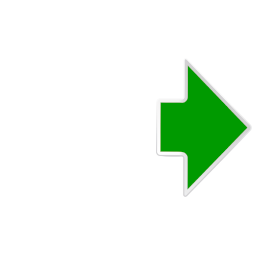
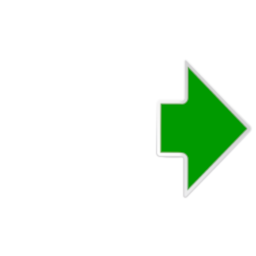
Fixed indicator arrows, still can't hold button down

diff --git a/src/navarrows.rs b/src/navarrows.rs
@@ -52,7 +52,7 @@ impl NavArrows {
     /// Decode the click into the user action -- Left, Right, Up, Down, Center, or None.
     pub fn decode_response(&self, response: &Response) -> NavAction {
         if response.is_pointer_button_down_on() {
-            ////println!("Button down on");// ***TEMP***
+            println!("Button down on");// ***TEMP***
             if let Some(interact_pos) = response.hover_pos() {
                 //  Compute position relative to center of button.
                 let to_vec2 = |p: egui::Pos2| egui::Vec2::new(p.x, p.y);          // why not just use one 2d point/vector type?
@@ -102,9 +102,10 @@ impl egui::Widget for &mut NavArrows {
                 *&self.button.0,
                 *&self.button.1,
                 )
-                .frame(true)
+                .frame(false)
             );
         self.draw_pressed_arrow(ui, response)
+        ////response
     }
 }
 

diff --git a/src/examples/ui-mock/main.rs b/src/examples/ui-mock/main.rs
@@ -186,7 +186,7 @@ impl AppUi {
         //  Icon loading (current). Example content only. Real programs do this at run time, so we can have themes.
         let move_arrows_icon_bytes = include_bytes!("../../assets/images/move-arrows-128.png");
         let rot_arrows_icon_bytes = include_bytes!("../../assets/images/rot-arrows-128.png");
-        let pressed_button_icon_bytes = include_bytes!("../../assets/images/arrow-pressed-right.png");
+        let pressed_button_icon_bytes = include_bytes!("../../assets/images/arrow-pressed-right-64.png");
         let ui_app_assets = UiAppAssets {
             move_arrows_icon: libui::load_canned_icon(move_arrows_icon_bytes, &mut egui_routine, renderer),
             rot_arrows_icon: libui::load_canned_icon(rot_arrows_icon_bytes, &mut egui_routine, renderer),

diff --git a/src/examples/ui-mock/libdialog/dialogs/menuconnected.rs b/src/examples/ui-mock/libdialog/dialogs/menuconnected.rs
@@ -47,8 +47,8 @@ impl MenuConnected {
         let button_size = egui::Vec2::splat(64.0);
         let arrow_size = egui::Vec2::splat(64.0);
         Rc::new(RefCell::new(MenuConnected{
-            move_arrows: NavArrows::new((assets.move_arrows_icon, button_size), (assets.pressed_button_icon, arrow_size), 16.0),
-            rot_arrows: NavArrows::new((assets.rot_arrows_icon, button_size), (assets.pressed_button_icon, arrow_size), 16.0),           
+            move_arrows: NavArrows::new((assets.move_arrows_icon, button_size), (assets.pressed_button_icon, arrow_size), 8.0),
+            rot_arrows: NavArrows::new((assets.rot_arrows_icon, button_size), (assets.pressed_button_icon, arrow_size), 8.0),           
         }))                          // create a trait object to dispatch
     }
 }
